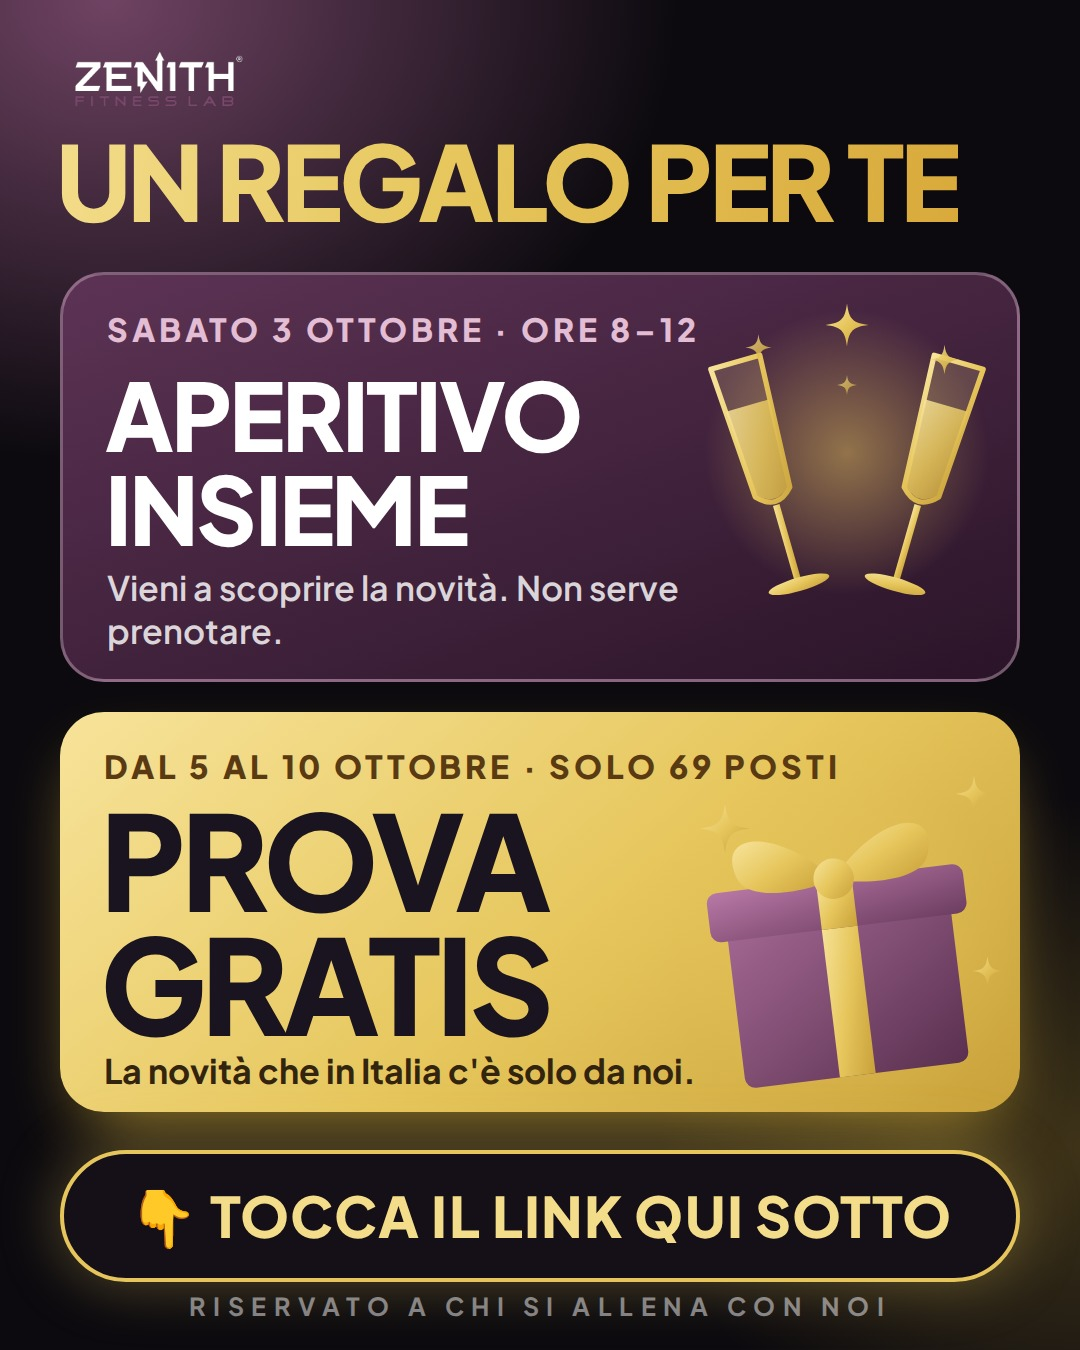
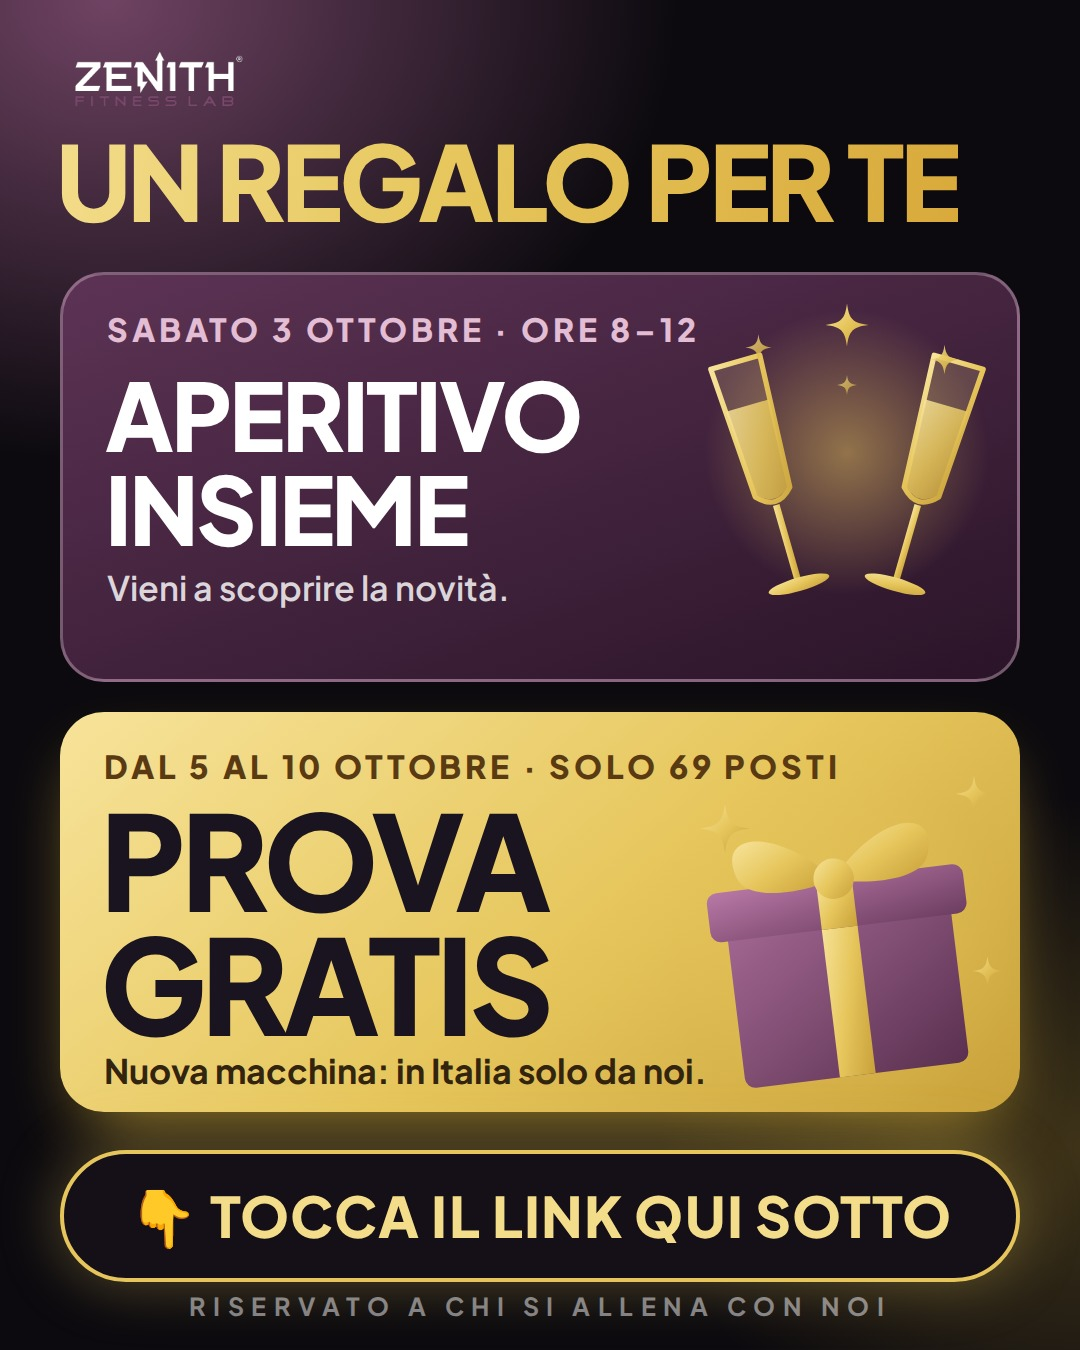
Prima schermata: via «non serve prenotare», riga sulla nuova macchina, frecce piu' grandi; foto e messaggio aggiornati
Claude-Session: https://claude.ai/code/session_01MZRCdVi6adMs4Bac4AWRp5

Changed region(s): [[0.0917, 0.7778, 0.6417, 0.8089], [0.4889, 0.4044, 0.6417, 0.4667], [0.0917, 0.4667, 0.2444, 0.4978]]

diff --git a/app/prova/index.html b/app/prova/index.html
@@ -121,7 +121,8 @@ input.tel:focus{border-color:var(--oro)}
 .sabato .ap{font-size:21px; font-weight:800; margin-top:12px}
 .sabato .no{font-size:14.5px; line-height:1.45; color:rgba(245,243,247,.8); margin-top:6px}
 .sabato .no b{color:#fff}
-.frecce{display:flex; justify-content:center; gap:14px; font-size:44px; line-height:1; color:var(--oro); margin:10px 0 4px; font-weight:800}
+.nuova{text-align:center; font-size:15.5px; line-height:1.5; color:var(--muted); margin:16px 6px 0} .nuova b{color:var(--text)}
+.frecce{display:flex; justify-content:center; gap:22px; font-size:62px; line-height:.9; color:var(--oro); margin:8px 0 0; font-weight:800}
 .frecce span{animation:rimbalza 1.1s ease-in-out infinite} .frecce span:nth-child(2){animation-delay:.18s} .frecce span:nth-child(3){animation-delay:.36s}
 @keyframes rimbalza{50%{transform:translateY(9px)}}
 .vai{display:block; width:100%; font:inherit; border:none; cursor:pointer; color:#1a1320; text-align:center;
@@ -135,7 +136,7 @@ input.tel:focus{border-color:var(--oro)}
 @media (prefers-reduced-motion:reduce){ .vai,.frecce span{animation:none} }
 /* il bottone: un bollino rotondo, enorme, con l'anello che pulsa */
 .sabato.c{padding:16px 16px 18px} .sabato.c .gg{font-size:46px} .sabato.c .ore{font-size:24px}
-.bollo{position:relative; width:min(300px,84vw); aspect-ratio:1; margin:22px auto 8px}
+.bollo{position:relative; width:min(300px,84vw); aspect-ratio:1; margin:24px auto 8px}
 .bollo::before,.bollo::after{content:""; position:absolute; inset:-10px; border-radius:50%; border:3px solid rgba(230,198,92,.55); animation:anello 2s ease-out infinite; pointer-events:none}
 .bollo::after{animation-delay:1s}
 @keyframes anello{from{transform:scale(.92); opacity:1} to{transform:scale(1.16); opacity:0}}
@@ -296,9 +297,10 @@ function costruisciIngresso(){
   const sab = '<div class="sabato c"><div class="sk1">🥂 TI ASPETTIAMO</div>'
     + '<div class="gg">SABATO <em>3</em></div><div class="ore">dalle 8 alle 12</div>'
     + '<div class="ap">Aperitivo insieme</div>'
-    + '<div class="no">Passa a scoprire ' + NOVITA + '. <b>Non serve prenotare.</b></div></div>';
+    + '<div class="no">Vieni a scoprire ' + NOVITA + '.</div></div>';
+  const nuova = '<div class="nuova">È arrivata una <b>nuova macchina</b> nel nostro centro:<br>tu puoi provarla <b>gratis</b>.</div>';
   const frecce = '<div class="frecce"><span>↓</span><span>↓</span><span>↓</span></div>';
-  const h = '<span class="step"><i>1</i> BENVENUTO</span>' + sab + frecce
+  const h = '<span class="step"><i>1</i> BENVENUTO</span>' + sab + nuova + frecce
     + '<div class="bollo"><button class="vai" id="vai"><span class="dita">👆</span><span class="su">CLICCA QUI</span><span class="gr">E PRENOTA LA TUA<br>PROVA GRATIS<br>ORA</span><span class="sotto">5–10 ottobre · 69 posti</span></button></div>'
     + '<div class="nota-ingresso">La prova è un regalo per chi si allena con noi.</div>';
   $('ingresso').innerHTML = h;

diff --git a/test/prova.test.js b/test/prova.test.js
@@ -22,7 +22,7 @@ module.exports = async function(browser){
   await p.reload(); await p.waitForTimeout(400);
   const ing = await p.evaluate(()=> ({on: document.getElementById('s-ingresso').classList.contains('on'), cal: document.getElementById('s-cal').classList.contains('on'),
     testo: document.getElementById('s-ingresso').innerText, vai: (document.getElementById('vai') || {}).innerText || ''}));
-  tac.t('il primo passo e\' obbligato: si vede sabato 3, non il calendario', ing.on && !ing.cal && /SABATO/.test(ing.testo) && /8 alle 12/.test(ing.testo) && /Aperitivo/i.test(ing.testo) && /Non serve prenotare/.test(ing.testo), ing.testo);
+  tac.t('il primo passo e\' obbligato: si vede sabato 3 (senza dire se serve prenotare) e la nuova macchina, non il calendario', ing.on && !ing.cal && /SABATO/.test(ing.testo) && /8 alle 12/.test(ing.testo) && /Aperitivo/i.test(ing.testo) && !/non serve prenotare/i.test(ing.testo) && /nuova macchina/.test(ing.testo), ing.testo);
   tac.t('il bottone grande dice di prenotare la prova gratis ora', /CLICCA QUI/.test(ing.vai) && /PRENOTA LA TUA\s+PROVA GRATIS/.test(ing.vai), ing.vai);
   tac.t('niente tasti per cambiare strada: o si preme il bottone o non si va avanti', await p.evaluate(()=> document.querySelectorAll('#s-ingresso button').length === 1 && !document.querySelector('.tabs')));
   await vai(p);
